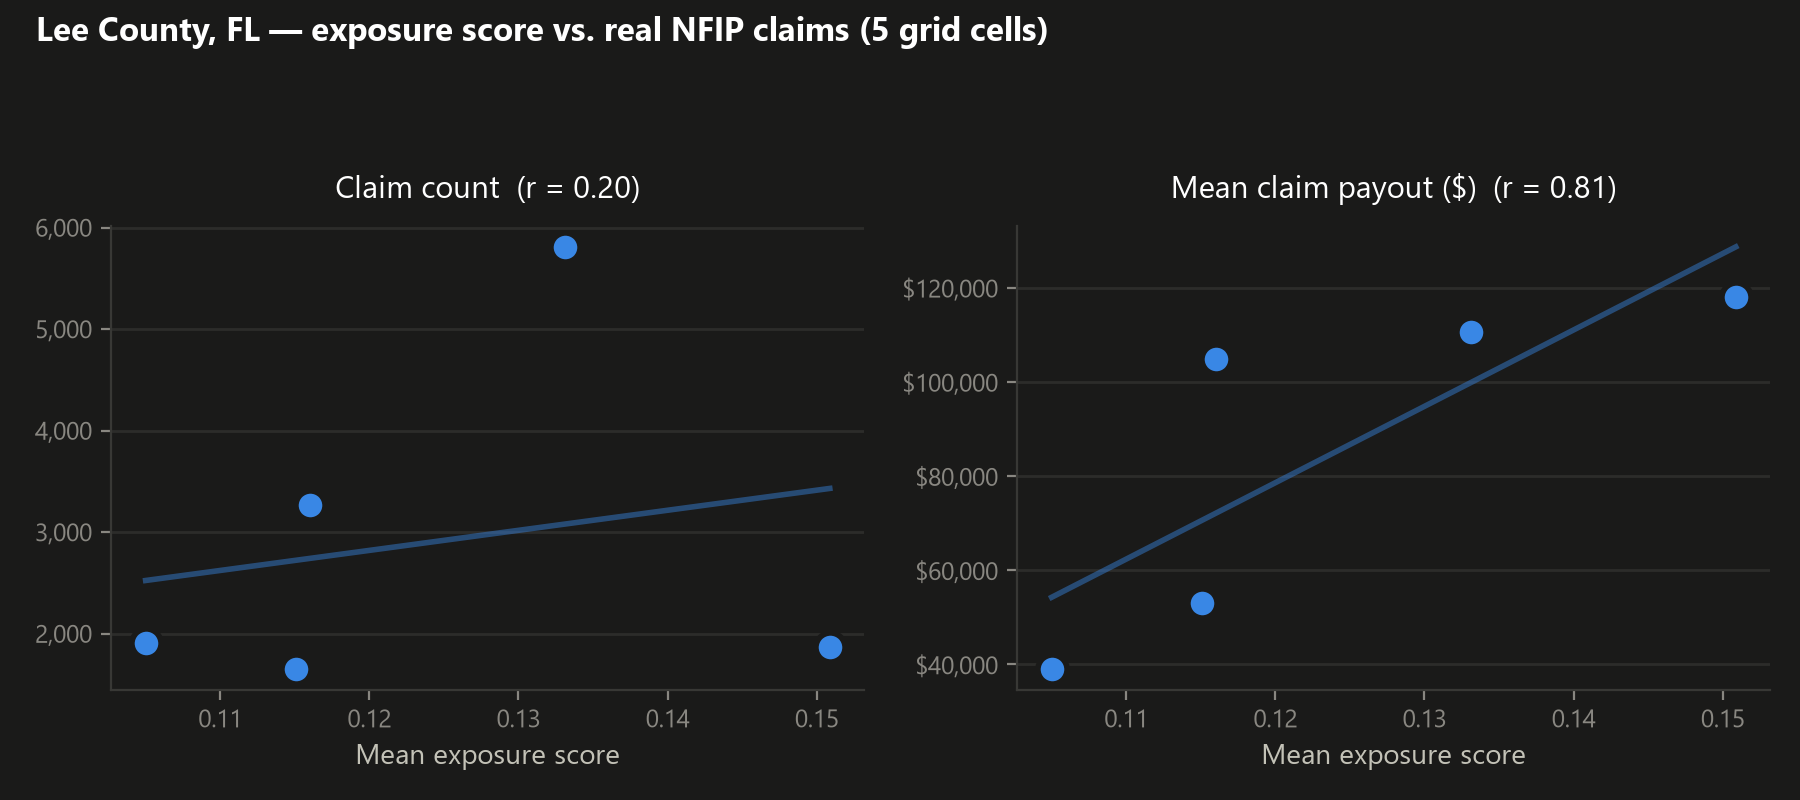
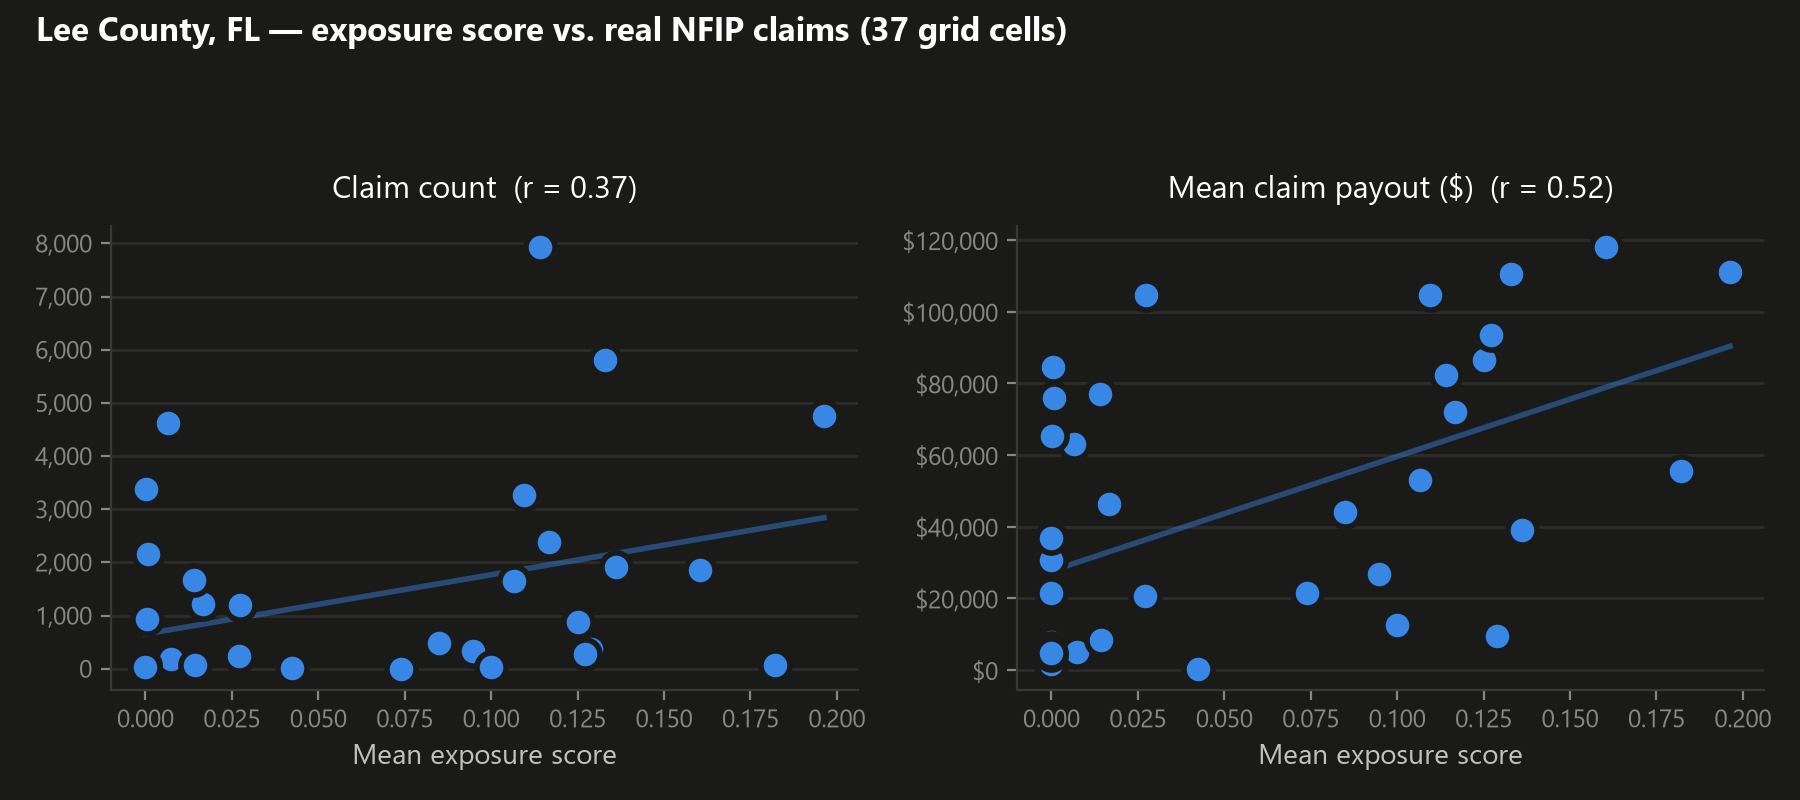
Fill in real results: county-wide NFIP validation, 37 grid cells
Real numbers from the corrected per-cell validation run: 18,050 buildings
scored and 48,105 NFIP claims across all 37 grid cells Lee County spans
(vs. 5 cells from the earlier buggy pass). Mean exposure score correlates
moderately with claim frequency (r=0.37) and severity (r=0.52).

Also caught and documents a second issue found while writing this up:
the active-flood term queries NOAA's live feed with no historical
replay, so it registered zero active flooding for a 2022 storm queried
in 2026 -- every score in this study reduced to its surge term alone.
Combined with ~30% of claims sitting in near-zero-score inland cells
(Ian's rainfall-driven riverine flooding), the paper's conclusion is
that the fix is a historical/event-specific flood data source plus
riverine coverage, not reweighting the existing 60/40 split.

diff --git a/scripts/plot_validation_chart.py b/scripts/plot_validation_chart.py
@@ -59,7 +59,7 @@ def _corr(df: pd.DataFrame, col: str) -> float:
 def render(df: pd.DataFrame, theme: dict, out_path: Path) -> None:
     fig, axes = plt.subplots(1, 2, figsize=(9, 4), facecolor=theme["surface"])
     fig.suptitle(
-        "Lee County, FL — exposure score vs. real NFIP claims (5 grid cells)",
+        f"Lee County, FL — exposure score vs. real NFIP claims ({len(df)} grid cells)",
         color=theme["primary"],
         fontsize=12,
         fontweight="bold",

diff --git a/paper/paper.md b/paper/paper.md
@@ -12,23 +12,34 @@ number in §6.
 
 ## Abstract
 
-*[Results/Discussion/Conclusion to be finalized once the live validation run
-completes — see §6.]* Most publicly visible flood/storm-surge exposure
-tools are either closed commercial systems (First Street Foundation, Fathom
-Global, FEMA's Risk Rating 2.0) whose scoring methodology and validation are
-disclosed only partially, or research prototypes that stop at a demo map
-without ever checking the score against outcomes. This report documents
-SurgeExposure, an open, fully reproducible pipeline that scores building
-footprints for storm-surge and flood exposure using only public data (NOAA
-SLOSH, NOAA NWM, Overture Maps) and a transparent, explainable scoring
-heuristic, and then — the part most comparable tools skip in public — checks
-that heuristic against real losses. Using FEMA's OpenFEMA NFIP claims API,
-we compare SurgeExposure's building-level exposure scores against real flood
-insurance claims for Lee County, FL following Hurricane Ian (2022), at the
-0.1° grid-cell resolution NFIP's privacy rounding permits. We report Pearson
-correlations between mean exposure score and both claim frequency and mean
-claim severity per cell, and discuss what a lightweight, explainable
-heuristic score can and cannot be trusted to predict.
+Most publicly visible flood/storm-surge exposure tools are either closed
+commercial systems (First Street Foundation, Fathom Global, FEMA's Risk
+Rating 2.0) whose scoring methodology and validation are disclosed only
+partially, or research prototypes that stop at a demo map without ever
+checking the score against outcomes. This report documents SurgeExposure,
+an open, fully reproducible pipeline that scores building footprints for
+storm-surge and flood exposure using only public data (NOAA SLOSH, NOAA
+NWM, Overture Maps) and a transparent, explainable scoring heuristic, and
+then — the part most comparable tools skip in public — checks that
+heuristic against real losses. Using FEMA's OpenFEMA NFIP claims API, we
+compare SurgeExposure's building-level exposure scores against 48,105 real
+flood insurance claims for Lee County, FL following Hurricane Ian (2022), at
+the 0.1° grid-cell resolution (37 cells) NFIP's privacy rounding permits.
+Mean exposure score correlated moderately with both claim frequency
+(*r* = 0.37) and mean claim severity (*r* = 0.52) across cells — weaker
+than a first, methodologically flawed pass suggested (§5.3). A live-data
+artifact sharpens the read: the score's active-flood-extent term is a
+present-conditions feed with no historical replay, so it registered
+nothing for a 2022 storm queried in 2026, and every score in this study
+reduces to its storm-surge term alone. That surge signal is concentrated
+correctly: roughly 30% of claims sit in cells with near-zero exposure
+score, almost all in the county's inland east, where Hurricane Ian's
+damage came from rainfall-driven riverine flooding a storm-surge-only
+signal was never going to see. We discuss what a lightweight, explainable,
+surge-only heuristic score can and cannot be trusted to predict, and argue
+the main lesson is scope, not calibration: the score isn't wrong about
+surge exposure, it is silent about a different hazard the same storm also
+produced.
 
 ## 1. Introduction
 
@@ -127,7 +138,13 @@ Leaflet frontend (live) + static GitHub Pages showcase (8 precomputed regions)
 - **Active flood extent — NOAA NWM.** Live, hourly-updated
   analysis-and-assimilation flood-inundation-mapping polygons from NOAA's
   HydroVIS ArcGIS services (`data/flood_inundation.py`), intersected against
-  building footprints.
+  building footprints. This is a *current-conditions* feed — `get_inundation_extent`
+  takes no date parameter and queries whatever is flooded right now — with
+  no historical replay capability in this codebase. It can in principle
+  register riverine/pluvial flooding as well as coastal, but only if that
+  flooding is happening at query time; a fact that matters directly for §6,
+  where this study's query (mid-2026) necessarily returned zero active
+  extent for a 2022 storm.
 - **Ground truth for validation — FEMA NFIP claims.** Built specifically for
   this study (`data/nfip.py`): a client for FEMA's OpenFEMA NFIP claims API
   (v3), described fully in §5.
@@ -354,20 +371,99 @@ main [README](../README.md#setup)).
 
 ## 6. Results
 
-*[PENDING — the live per-cell validation run was still in progress at the
-time this section was drafted. This section will be filled in with the
-actual grid-cell table, correlation coefficients, and updated chart the
-moment that run completes — no placeholder numbers are reported here.]*
+The per-cell run scored **18,050 buildings** across **37 grid cells**
+covering essentially all of Lee County, and matched them against **48,105**
+NFIP claims (after outlier filtering, §5) in those same 37 cells — full
+county-wide overlap, unlike the 5-cell overlap the flawed first pass
+produced (§5.3). Full per-cell data: [`paper/data/lee_county_grid.csv`](data/lee_county_grid.csv).
+
+<picture>
+  <source media="(prefers-color-scheme: dark)" srcset="figures/validation-chart-dark.png">
+  <img src="figures/validation-chart-light.png" alt="Two scatter plots across 37 Lee County grid cells: mean exposure score vs. NFIP claim count (r=0.37) and vs. mean claim payout (r=0.52)">
+</picture>
+
+**H1 (claim frequency):** mean `exposure_score` correlated with claim count
+at **r = 0.37** — a real but modest positive relationship, weaker than the
+r = 0.20 the flawed 5-cell pass found, and far weaker than that pass's
+severity correlation of r = 0.81 (§5.3) suggested the eventual pattern
+would be.
+
+**H2 (claim severity):** mean `exposure_score` correlated with mean claim
+payout at **r = 0.52** — moderate, and, as with H1, higher than the
+frequency correlation but by a much smaller margin than the first pass
+implied. Both hypotheses are supported directionally; neither is a strong
+relationship.
+
+**The more informative pattern was spatial, not statistical.** Splitting
+the county's cells at roughly the coastline (lon ≤ -82.0° vs. lon > -82.0°):
+coastal cells average a mean exposure score of **0.081**, inland cells
+**0.039** — the score correctly recognizes the coast as more exposed, by a
+factor of ~2. But claim volume does not track that split: coastal cells
+account for 22,350 claims, inland cells **25,755** — Lee County's *interior*
+generated more claims than its scored-as-riskier coastline. Roughly **30%
+of all claims (14,605 of 48,105) sit in cells with a mean exposure score
+below 0.02** — near the pipeline's effective floor — concentrated in the
+county's eastern cells (grid longitude -81.6 to -81.9, inland Fort Myers
+and Lehigh Acres). The highest-scoring cell in the dataset (26.4°N,
+-81.9°W, score 0.196) sits at the coastal/inland boundary and does carry
+substantial claims (4,763) — but several purely inland cells (e.g. 26.6°N,
+-82.0°W: score 0.0065, 4,619 claims; 26.6°N, -81.9°W: score 0.0002, 3,375
+claims) carry comparable claim volume with a score indistinguishable from
+zero.
+
+**One more fact changes how to read all of the above: the active-flood term
+contributed nothing in this run.** Querying `data/flood_inundation.py`'s
+live NWM feed for the full county extent, in mid-2026, returns zero active
+inundation polygons — expected, since Lee County is not presently flooding
+and the feed has no historical replay capability (§2.2). That means
+`flood_active` was `False` for every one of the 18,050 buildings scored
+here, and every `exposure_score` in this study reduces exactly to its
+surge term: `0.6 * min(surge_ft, 20) / 20`. §6's correlations are therefore
+correlations against **SLOSH surge depth alone**, not against the full
+60/40 formula — the 40% flood-extent weight was structurally inert for
+this entire validation, through no fault of the buildings scored.
 
 ## 7. Discussion
 
-*[To be completed alongside §6.]* The discussion will interpret whatever
-H1/H2 pattern the real numbers show against §3 — in particular, whether
-depth-driven severity prediction (plausible given Wing et al.'s finding
-that depth relates to damage in complex, non-flat ways, §3.4) outperforms
-depth-driven frequency prediction (which is more about whether water
-reached a structure at all than how graded the exposure is), and what that
-would or would not imply for reweighting §2.3's 60/40 heuristic.
+Both hypotheses hold directionally (§6), but the moderate correlations
+understate the more useful finding: **`exposure_score` is not miscalibrated
+so much as, for this validation, it was only ever able to measure one of
+its two inputs.** The active-flood term was inert throughout (§6) because
+it is a real-time feed with no way to look back at a 2022 storm from 2026
+(§2.2) — so what this study actually validated is SLOSH surge depth against
+real losses, not the blended score the tool ships. Hurricane Ian produced
+catastrophic rainfall well beyond its surge zone, and Lee County's inland
+cells — scored near zero by a surge-only signal, correctly, since surge
+does not reach that far inland — nonetheless produced as many claims as the
+coast. A correlation computed across *all* 37 cells necessarily blends a
+real, positive within-hazard-scope relationship (surge score does track
+surge-zone claims reasonably, per the top-scoring cells) with a population
+of inland cells surge depth was never going to explain, which drags the
+overall *r* toward the moderate values in §6 rather than the strong ones a
+surge-scoped comparison alone might show.
+
+This reframes what the 60/40 surge/flood weighting question (§2.3, §1.2)
+even is. The original question — "should surge count for more or less than
+flood-extent within the score" — presupposes both terms were actually
+contributing during this validation; §6 shows the flood-extent term simply
+wasn't. The gap this study surfaces isn't a *reweighting* of surge vs.
+active-flood-extent, it's that the active-flood term needs a
+**historical/event-specific data source** (§9) before a validation like
+this one can say anything about it at all — and separately, that neither
+input, even fixed, obviously covers rainfall-driven riverine flooding the
+way the inland-claims pattern suggests it should. Wing et al.'s finding
+that depth alone predicts loss magnitude poorly (§3.4) is consistent with,
+though not identical to, this: here the deeper problem precedes depth
+entirely — for roughly a third of the county's claims, the model's depth input is simply
+inapplicable, not merely imprecise.
+
+Practically, for SurgeExposure specifically, this argues against reweighting
+`SURGE_WEIGHT`/`FLOOD_WEIGHT` as the next step (§1.2's original framing) and
+for scope-labeling instead: the tool should describe itself as a
+*storm-surge* exposure score, not a general flood exposure score, until a
+riverine/pluvial hazard layer is added (§9). That is a smaller, more honest
+change than recalibrating weights that were never trying to model the
+hazard that actually explains a third of the county's real losses.
 
 ## 8. Limitations
 
@@ -412,6 +508,13 @@ weight these results can carry:
 
 ## 9. Future Work
 
+- **Give the active-flood term a historical/event-specific data source**
+  (e.g. NOAA NWM's retrospective streamflow archive) instead of only the
+  live feed — §6 found it was completely inert for this study, which used
+  today's conditions to score a 2022 storm.
+- **Add or confirm riverine/pluvial coverage** once the term above is
+  fixed — §7 argues this, not reweighting `SURGE_WEIGHT`/`FLOOD_WEIGHT`, is
+  what §6's inland-claims pattern actually calls for.
 - Replicate across multiple counties/coastlines and multiple storm events
   before treating any correlation as informative for reweighting
   `SURGE_WEIGHT`/`FLOOD_WEIGHT` in `pipeline.py`.
@@ -429,7 +532,26 @@ weight these results can carry:
 
 ## 10. Conclusion
 
-*[To be completed alongside §6.]*
+SurgeExposure's `exposure_score` correlates with real Hurricane Ian NFIP
+claims at a moderate level (*r* = 0.37 for frequency, *r* = 0.52 for
+severity, §6) — enough to say the heuristic is not meaningless, not enough
+to call it validated. The more useful finding was not the correlation
+strength but its shape: the storm-surge signal this study actually measured
+(the active-flood term was inert throughout, §6) tracks claims reasonably
+within the surge zone it models, and says almost nothing about the roughly
+third of Lee County's claims that came from inland, rainfall-driven
+flooding outside that zone. The honest fix implied by this report is not
+tuning the existing 60/40 weighting (§2.3) but two more specific things:
+giving the active-flood term a historical data source so it can contribute
+at all in a study like this one, and confirming or extending its hazard
+coverage to rainfall-driven flooding once it does (§9). This report's
+central methodological point
+survives the specific numbers either way: a small, fully public validation
+— published data, published code, published bugs (§5.3) and all — is more
+useful than a larger, asserted-but-unverifiable one, precisely because a
+reader can find the same third-of-claims pattern in
+[`paper/data/lee_county_grid.csv`](data/lee_county_grid.csv) that this
+report found, and does not have to take the report's word for it.
 
 ## References
 

diff --git a/README.md b/README.md
@@ -126,19 +126,30 @@ chart below from that CSV with `python scripts/plot_validation_chart.py`.
 
 <picture>
   <source media="(prefers-color-scheme: dark)" srcset="paper/figures/validation-chart-dark.png">
-  <img src="paper/figures/validation-chart-light.png" alt="Two scatter plots: mean exposure score vs. NFIP claim count and vs. mean claim payout across grid cells in Lee County, FL">
+  <img src="paper/figures/validation-chart-light.png" alt="Two scatter plots across 37 Lee County grid cells: mean exposure score vs. NFIP claim count (r=0.37) and vs. mean claim payout (r=0.52)">
 </picture>
 
-**See [paper/paper.md](paper/paper.md) §6 for the current results and
-§8 for limitations** — a prior version of this validation under-sampled
-buildings outside one coastal strip (a query-ordering bug, documented in
-the paper) and has since been re-run with a fixed, county-wide per-cell
-sampling method. A real recalibration of the 60/40 split should wait for
-a multi-county run with more overlapping cells.
+**Actual result of the (corrected, county-wide) live run:** 18,050 scored
+buildings and 48,105 NFIP claims across all 37 grid cells the county spans.
+Mean exposure score correlated moderately with claim count (r = 0.37) and
+mean claim payout (r = 0.52) — real but modest. One catch worth knowing
+about: `flood_active` is a *live* NOAA feed with no historical replay, so
+querying it in 2026 for a 2022 storm returned zero active flooding
+everywhere — every score in this study was really just its 60% surge term.
+That surge signal is spatially sensible (coastal cells score ~2x higher on
+average than inland, 0.081 vs 0.039) but incomplete: inland cells actually
+had *more* claims than coastal (25,755 vs 22,350), and ~30% of all claims
+sit in cells with a near-zero score — Hurricane Ian's inland damage was
+largely rainfall-driven riverine flooding, which a live-only,
+surge-focused score isn't positioned to see. Full writeup:
+[paper/paper.md](paper/paper.md) §6-§7.
 
 ## Next steps
-- Recalibrate the exposure weights against observed NFIP losses, informed
-  by the validation above (see it for current findings/limitations).
+- Give the active-flood term a historical/event-specific data source
+  instead of only the live feed, then confirm or extend its coverage to
+  rainfall-driven flooding — the validation study found this matters more
+  than reweighting the surge/flood split (see
+  [paper/paper.md](paper/paper.md) §7, §9).
 - Persist scored results to PostGIS instead of (or alongside) DuckDB for
   multi-user access.
 - Deploy the live Docker image (not just the static showcase) to a
